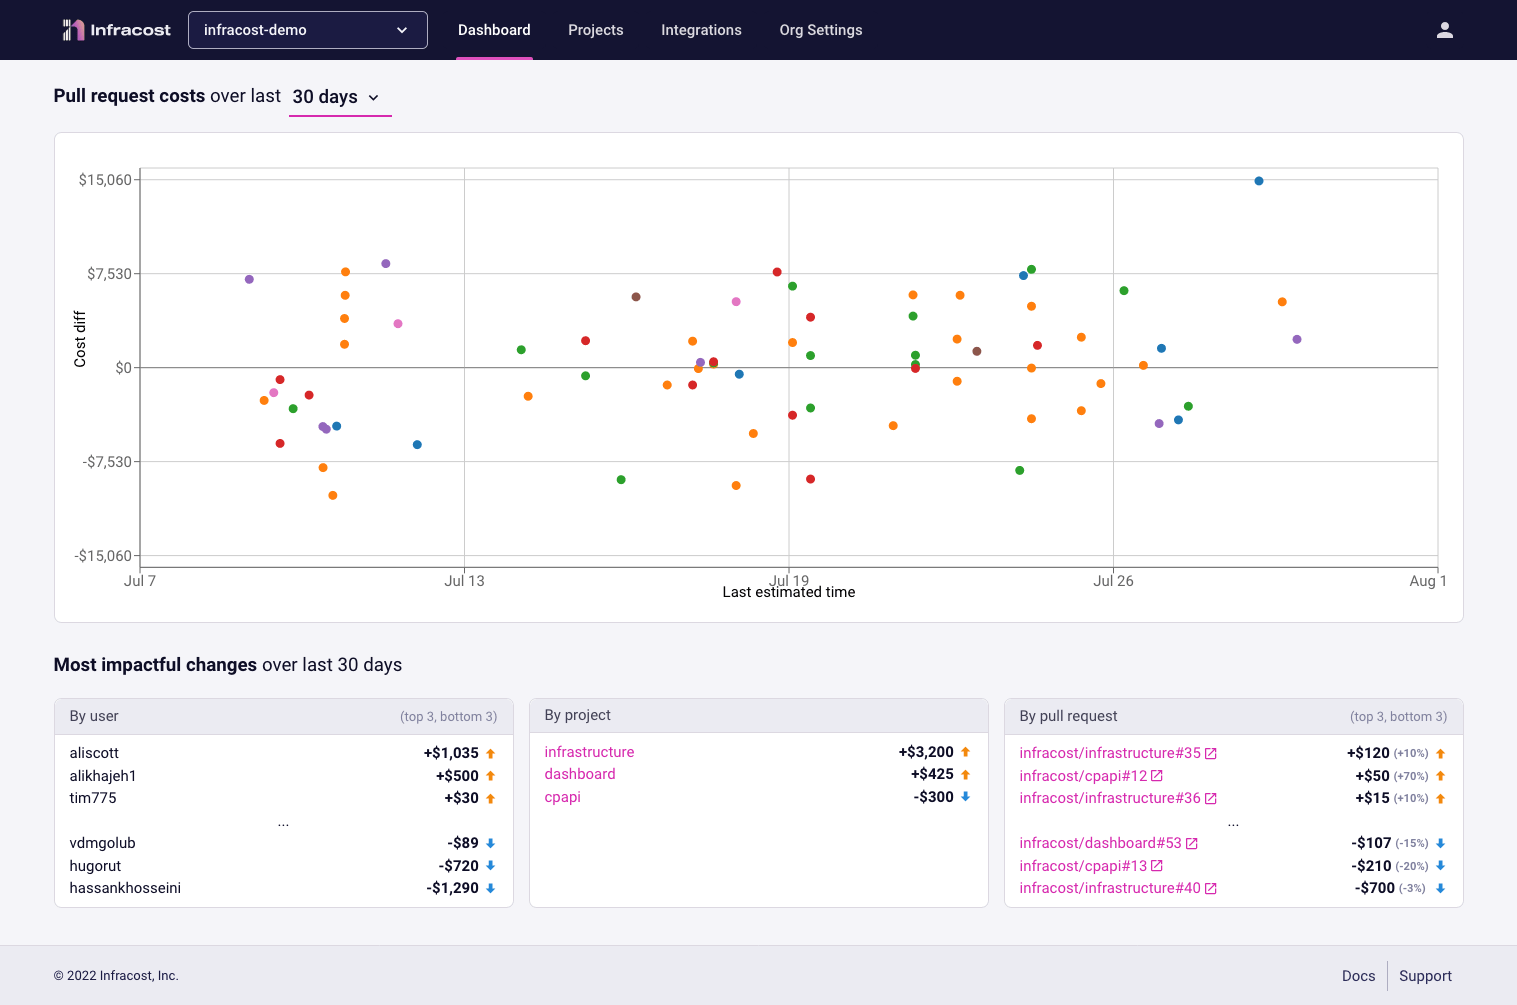
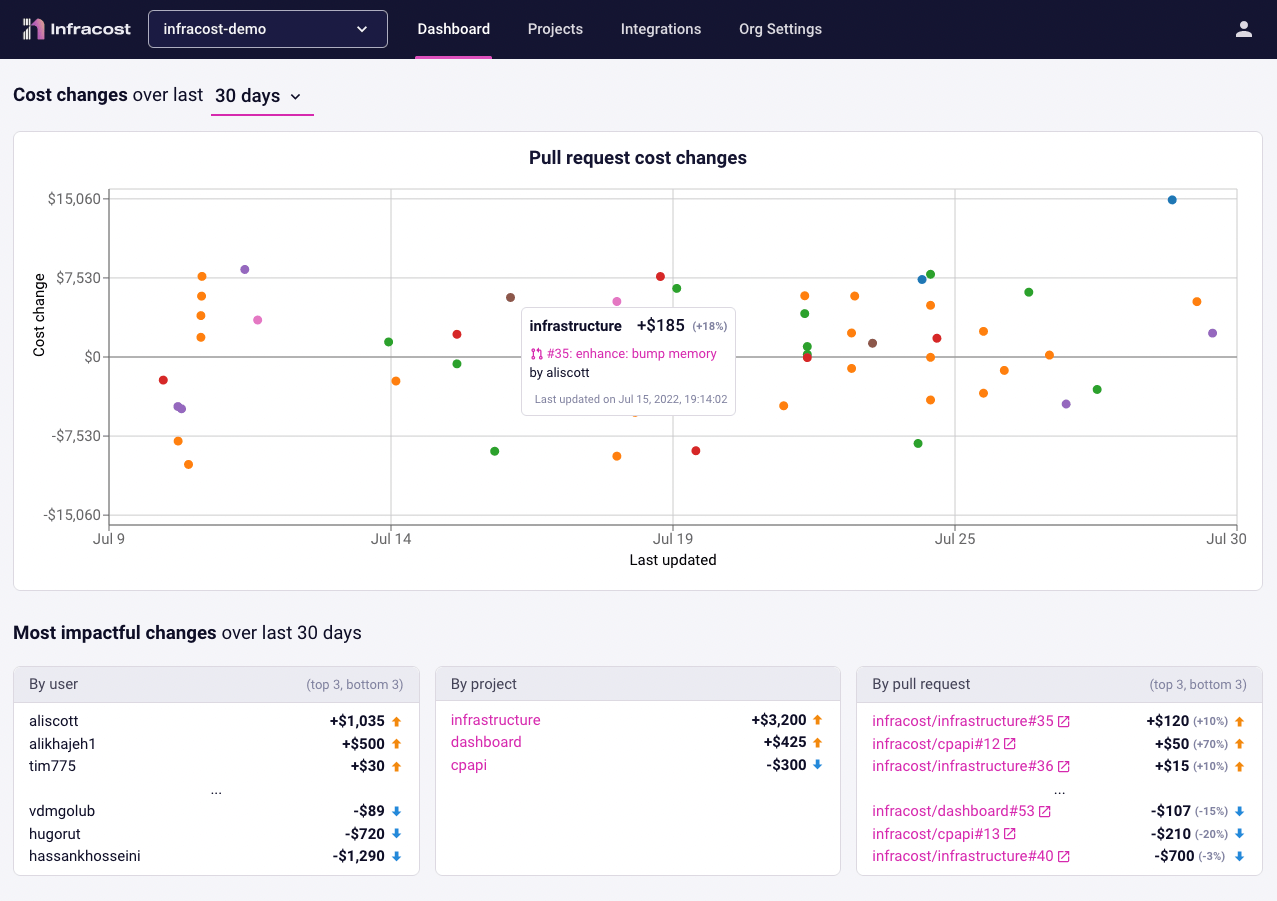
docs: Update Dashboard screenshot

diff --git a/docs/infracost_cloud/get_started.md b/docs/infracost_cloud/get_started.md
@@ -52,4 +52,4 @@ Go to [**Infracost Cloud**](https://dashboard.infracost.io) > **your organizatio
 
 If you run into any issues, please join our [community Slack channel](https://www.infracost.io/community-chat), we'll help you very quickly 😄
 
-<img src={useBaseUrl("img/infracost-cloud/dashboard-chart.png")} alt="Dashboard chart with tooltips" />
+<img src={useBaseUrl("img/infracost-cloud/dashboard.png")} alt="Team visibility across all changes" />
